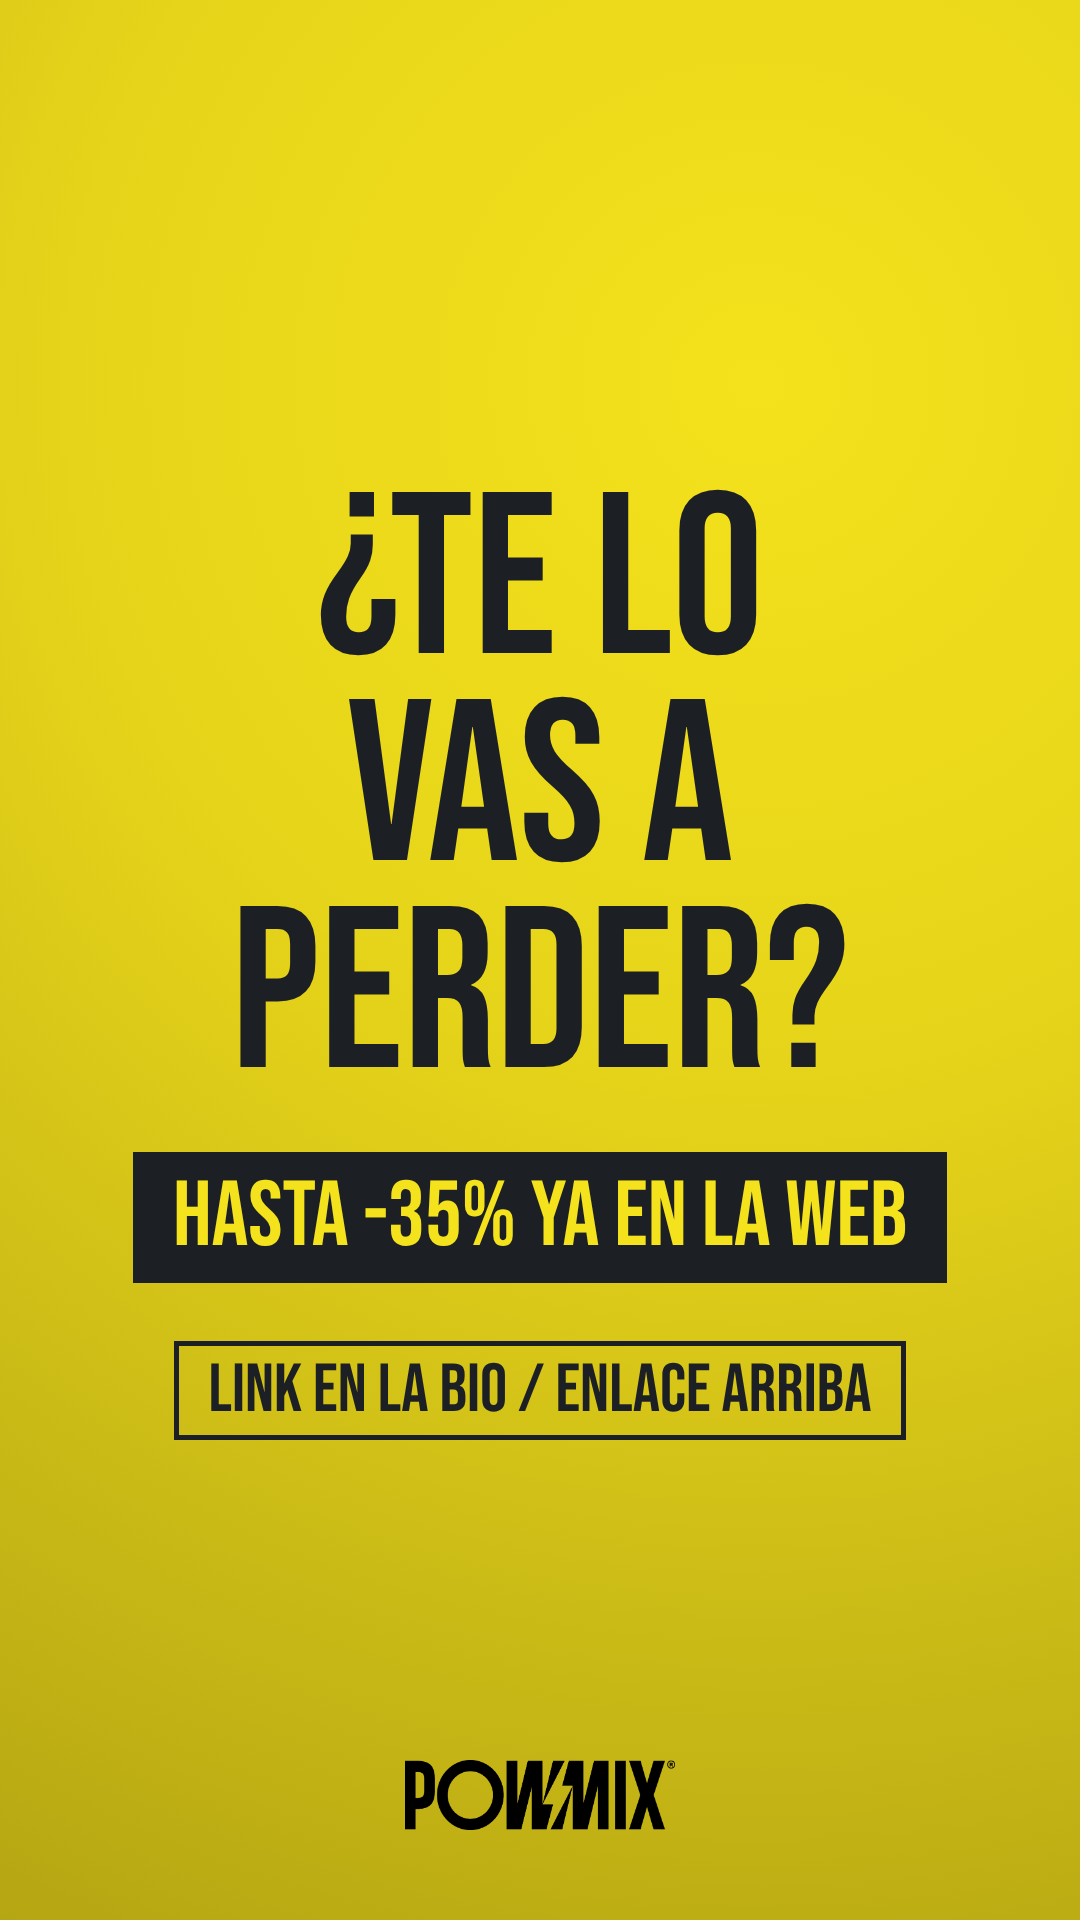
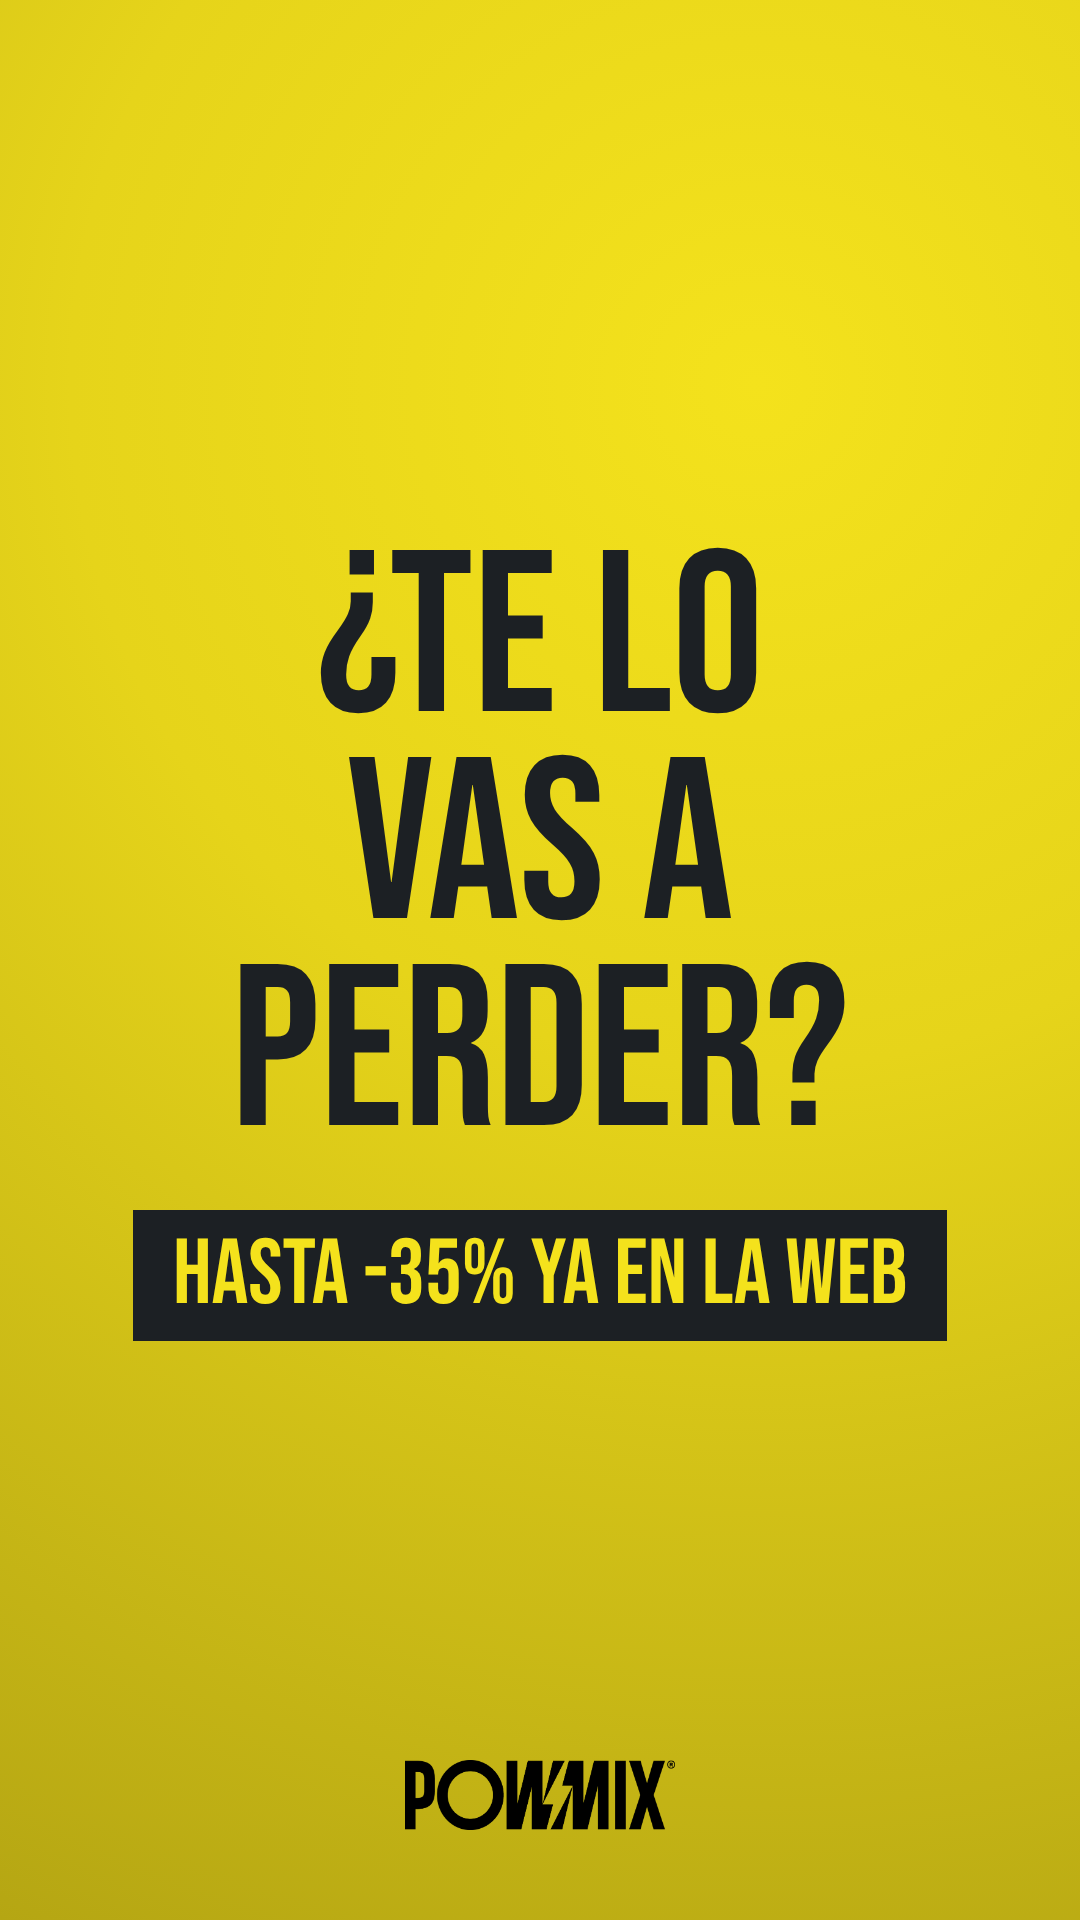
Remove link text from story 4
Claude-Session: https://claude.ai/code/session_01ESgrYfWtbUyydYC5uboLBi

Changed region(s): [[0.1222, 0.25, 0.8861, 0.75], [0.55, 0.25, 0.5806, 0.3125]]

diff --git a/stories/stories.html b/stories/stories.html
@@ -21,5 +21,5 @@ body{background:#222}
 <div class="s y" id="s1"><div class="big">BLACK<br>FRIDAY</div><div class="mid" style="margin-top:40px">YA ESTÁ AQUÍ</div><div class="logo"><img src="logo.png"></div></div>
 <div class="s y" id="s2"><div class="tag">BIENVENIDO AL BLACK FRIDAY</div><div class="big">WEB<br>ABIERTA</div><div class="bar">HASTA -35% EN TODA LA WEB</div><div class="logo"><img src="logo.png"></div></div>
 <div class="s g" id="s3"><div class="tag" style="font-size:52px;border:none">YA PUEDES COMPRAR</div><div class="mid" style="font-size:230px">BLACK FRIDAY</div><div class="big" style="font-size:560px;margin-top:20px">-35%</div><div class="bar">EN TODA LA WEB</div><div class="pills"><span>GELS</span><span>BIDONES</span><span>PACKS</span></div><div class="logo"><img src="logo.png"></div></div>
-<div class="s y" id="s4"><div class="mid" style="font-size:230px">¿TE LO<br>VAS A<br>PERDER?</div><div class="bar">HASTA -35% YA EN LA WEB</div><div class="out">LINK EN LA BIO / ENLACE ARRIBA</div><div class="logo"><img src="logo.png"></div></div>
+<div class="s y" id="s4"><div class="mid" style="font-size:230px">¿TE LO<br>VAS A<br>PERDER?</div><div class="bar">HASTA -35% YA EN LA WEB</div><div class="logo"><img src="logo.png"></div></div>
 </body></html>
